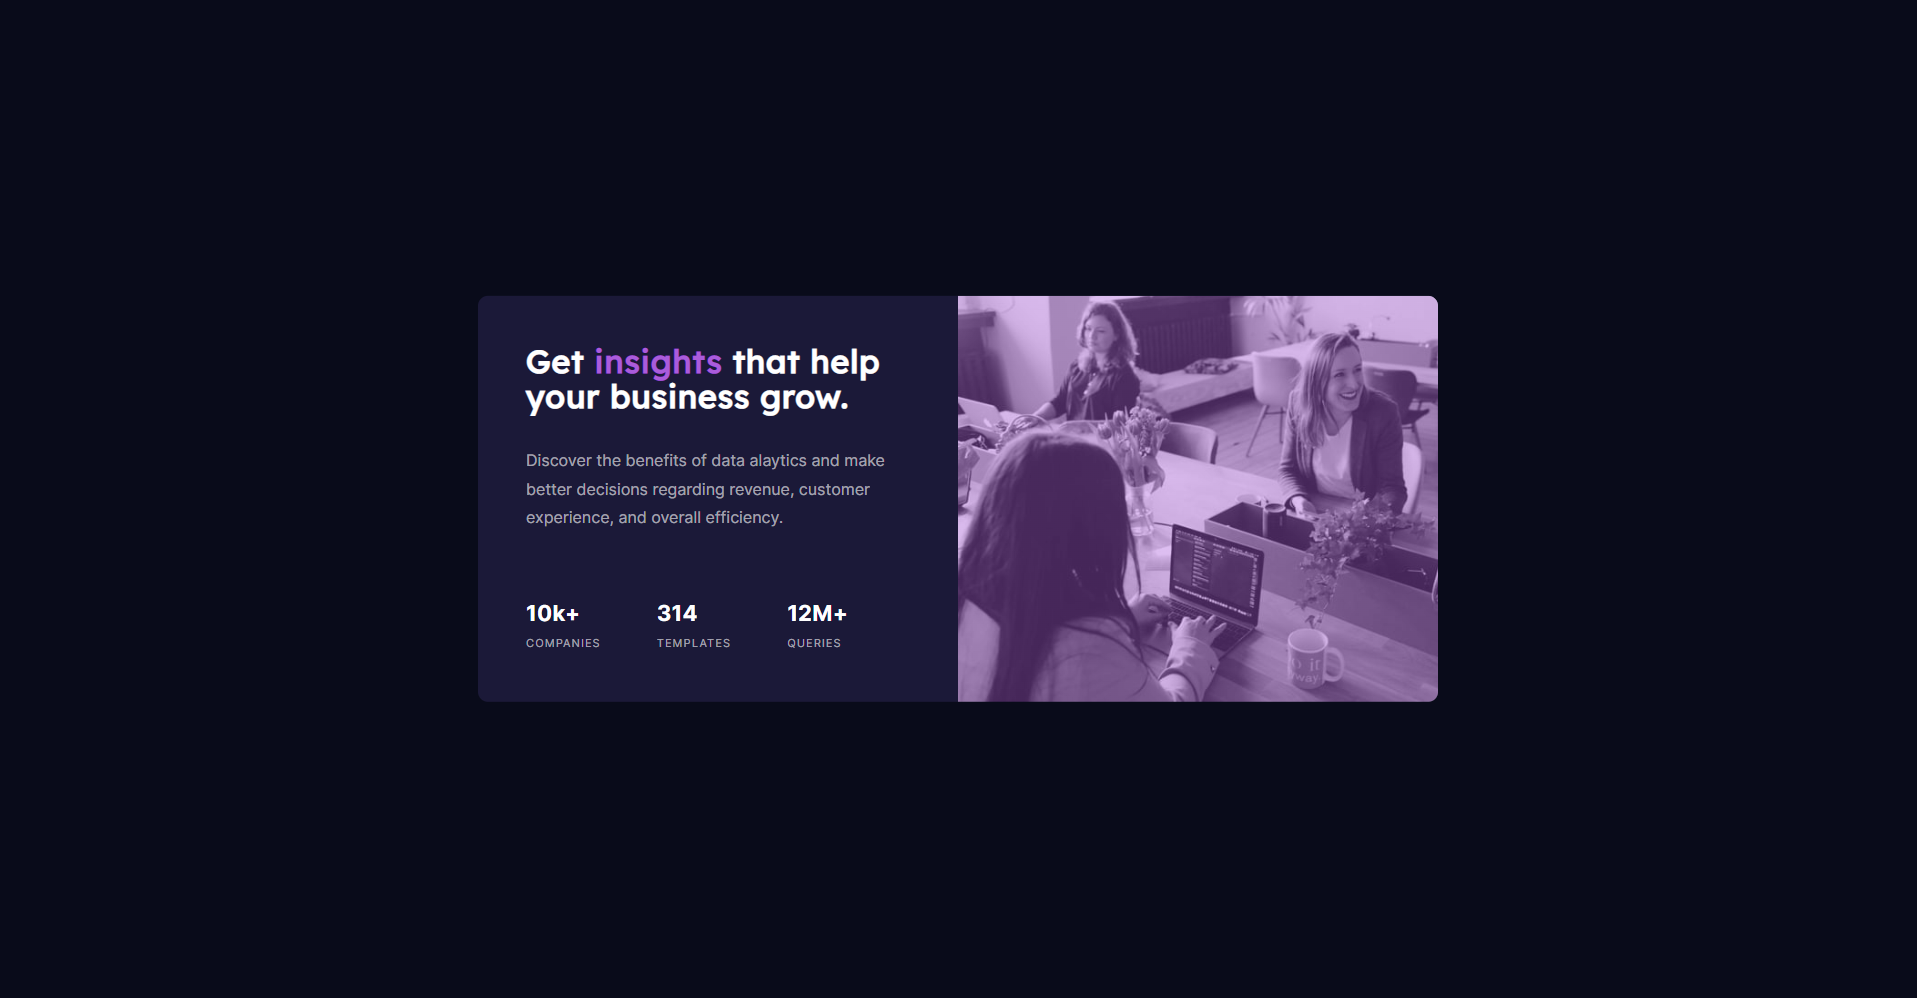
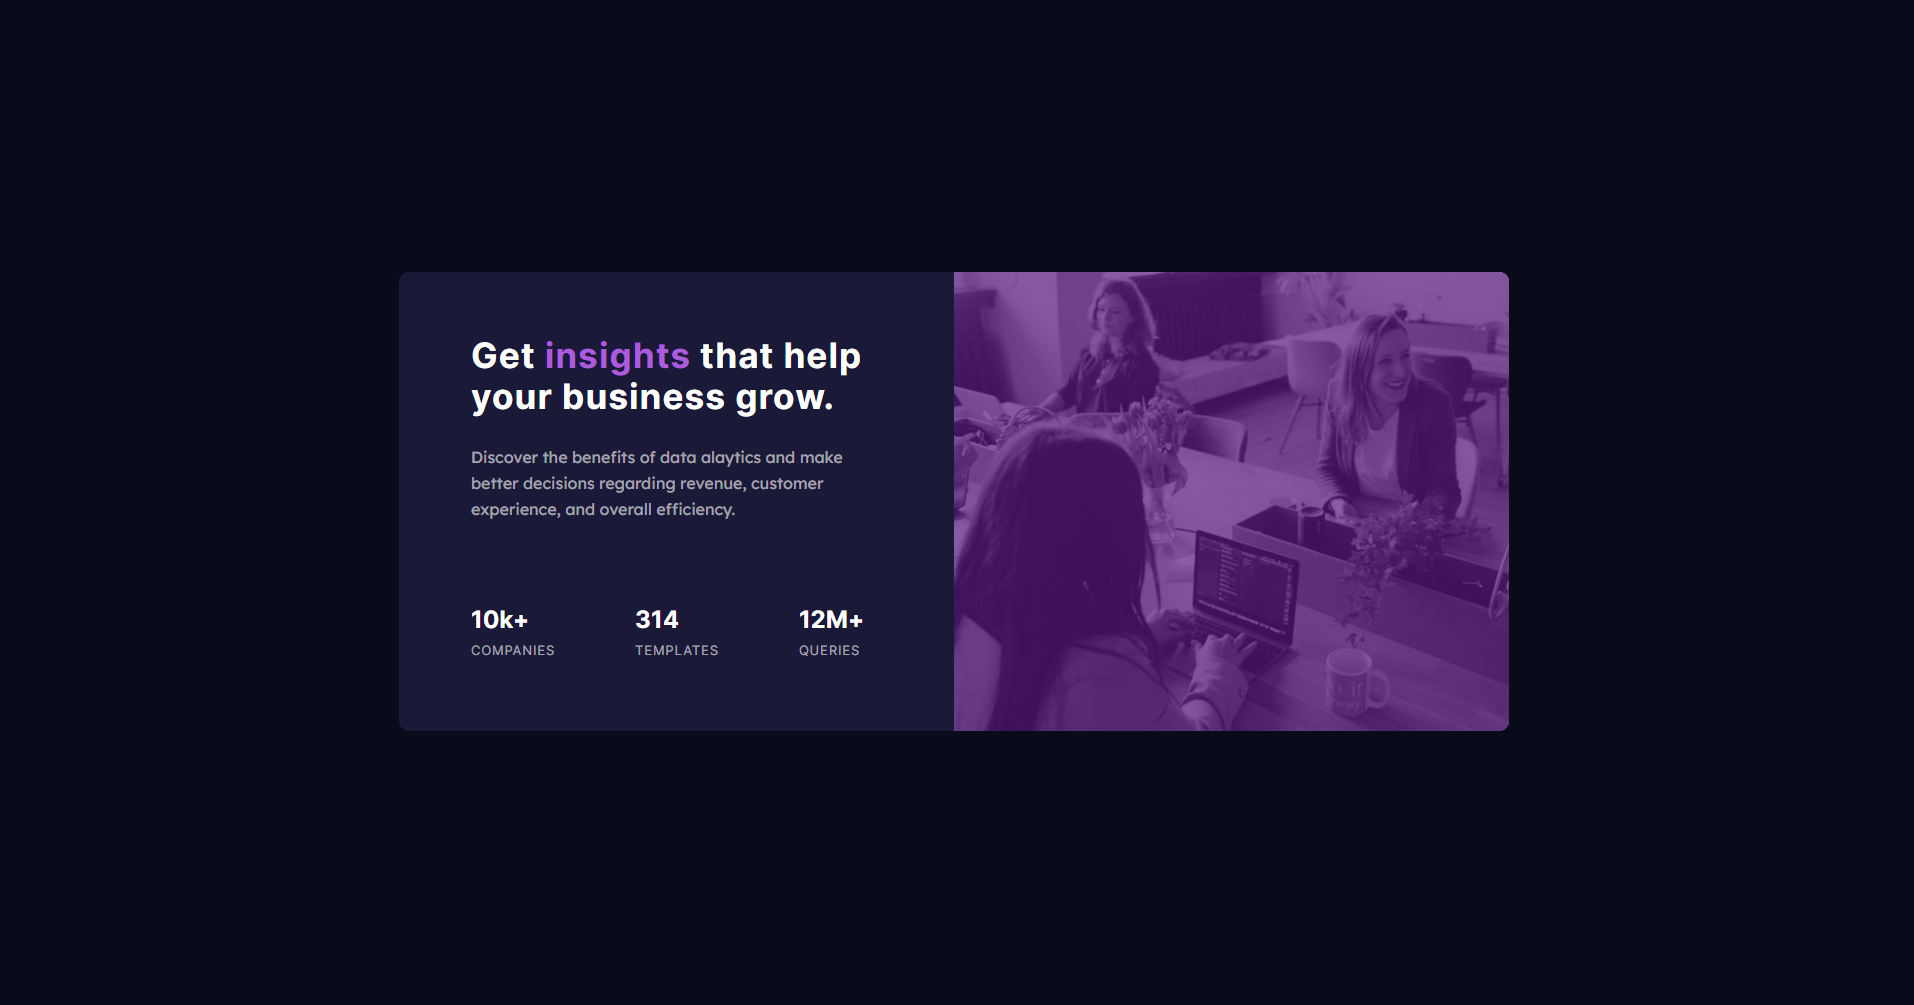
Img overlay - font size - responsiveness

Changed region(s): [[0.185, 0.2485, 0.8015, 0.7455], [0.4007, 0.5902, 0.4624, 0.6523], [0.3391, 0.5902, 0.3699, 0.6523]]

diff --git a/css/style.css b/css/style.css
@@ -6,6 +6,7 @@
   --clr-very-dark-blue: 233, 47%, 7%;
   --clr-dark-blue: 244, 38%, 16%;
   --clr-soft-violet: 277, 64%, 61%;
+  --clr-dark-violet: rgba(88, 23, 128, 0.7);
 
   --clr-white-1: 0, 0%, 100%;
   --clr-white-2: 0, 0%, 100%, 0.75;
@@ -19,8 +20,8 @@
   --fw-regular: 400;
   --fw-bold: 700;
 
-  --lh-body: 1.8;
-  --lh-heading: 1.1;
+  --lh-body: 1.6;
+  --lh-heading: 1.15;
 }
 
 /* ======================= */
@@ -98,41 +99,35 @@ svg {
 
 body {
   background-color: hsl(var(--clr-very-dark-blue));
+  display: grid;
+  place-content: center;
+  min-height: 100vh;
 }
 
 .container {
-  max-width: 1440px;
-  margin: 0 auto;
-}
-
-.box-center {
-  height: 100vh;
-  display: flex;
-  justify-content: center;
-  align-items: center;
-}
-
-.box {
-  background-color: hsl(var(--clr-dark-blue));
-  border-radius: 10px;
   color: hsl(var(--clr-white-1));
   display: grid;
   grid-template-columns: repeat(2, 1fr);
-  overflow: hidden;
-  max-width: 80%;
+  margin-inline: auto;
+  max-width: min(1110px, 90%);
 }
 
-.content-box {
-  padding: 4rem 5rem;
+.text-container {
+  border-bottom-left-radius: 10px;
+  border-top-left-radius: 10px;
+  background-color: hsl(var(--clr-dark-blue));
+  padding: 4rem 4.5rem;
+  display: flex;
+  flex-direction: column;
 }
 
 .heading-primary {
-  font-size: 2rem;
+  font-family: var(--ff-inter);
+  font-size: 2.2rem;
   font-weight: var(--fw-bold);
-  font-family: var(--ff-lexend);
-  letter-spacing: 1px;
   line-height: var(--lh-heading);
-  margin-bottom: 1em;
+  margin-bottom: 0.8em;
+  letter-spacing: 1px;
 }
 
 .heading-primary span {
@@ -140,76 +135,109 @@ body {
 }
 
 .description {
+  font-family: var(--ff-lexend);
   line-height: var(--lh-body);
-  font-family: var(--ff-inter);
   color: hsl(var(--clr-white-3));
-  margin-bottom: 4em;
+  margin-bottom: 5rem;
 }
 
-.image-box {
-  background-image: linear-gradient(
-      to right bottom,
-      hsl(var(--clr-soft-violet), 0.4),
-      hsl(var(--clr-soft-violet), 0.4)
-    ),
-    url("../images/image-header-desktop.jpg");
-  background-repeat: no-repeat;
-  background-size: cover;
-}
-
-.about-box {
+.info-container {
   display: flex;
 }
 
-.about-box div:not(:last-child) {
-  margin-right: 3.5rem;
+.info-container .info:not(:last-child) {
+  margin-right: 5rem;
 }
 
-.about-box p {
+.info-number,
+.info-text {
   font-family: var(--ff-inter);
-  font-size: 1.4rem;
+}
+
+.info-number {
+  font-size: 1.5rem;
   font-weight: var(--fw-bold);
 }
 
-.about-box span {
-  color: hsl(var(--clr-white-3));
-  font-family: var(--ff-inter);
+.info-text {
   text-transform: uppercase;
-  font-size: 0.7rem;
+  font-size: 0.8rem;
   letter-spacing: 1px;
+  color: hsl(var(--clr-white-3));
 }
 
-@media (max-width: 52em) {
-  .box {
+.img-container {
+  position: relative;
+}
+
+.img-container::after {
+  content: "";
+  display: block;
+  width: 100%;
+  height: 100%;
+  position: absolute;
+  top: 0;
+  left: 0;
+  background-color: var(--clr-dark-violet);
+  border-top-right-radius: 10px;
+  border-bottom-right-radius: 10px;
+}
+
+.img {
+  width: 100%;
+  height: 100%;
+  object-fit: cover;
+  border-top-right-radius: 10px;
+  border-bottom-right-radius: 10px;
+}
+
+@media (max-width: 50em) {
+  .container {
     grid-template-columns: 1fr;
-    grid-template-rows: 1fr 2fr;
+  }
+
+  .text-container {
+    padding: 0;
+    border-top-left-radius: 0;
+    border-top-right-radius: 0px;
+    border-bottom-left-radius: 10px;
+    border-bottom-right-radius: 10px;
     text-align: center;
+    padding: 2.5rem 2rem;
   }
 
-  .content-box {
-    grid-row: 2 / -1;
+  .heading-primary {
+    font-size: 1.7rem;
   }
 
-  .image-box {
-    grid-row: 1 / 2;
-    background-image: linear-gradient(
-        to right bottom,
-        hsl(var(--clr-soft-violet), 0.4),
-        hsl(var(--clr-soft-violet), 0.4)
-      ),
-      url("../images/image-header-mobile.jpg");
+  .description {
+    margin-bottom: 3rem;
   }
 
-  .about-box {
+  .info-container {
     flex-direction: column;
-    gap: 1rem;
+    gap: 2em;
   }
 
-  .about-box div:not(:last-child) {
+  .info-container .info:not(:last-child) {
     margin-right: 0;
   }
 
-  .content-box {
-    padding: 2rem 2.5rem;
+  .img-container {
+    grid-row: 1 / 2;
+  }
+
+  .img-container::after {
+    border-top-right-radius: 10px;
+    border-bottom-left-radius: 0;
+    border-bottom-right-radius: 0;
+    border-top-left-radius: 10px;
+  }
+
+  .img {
+    border-top-right-radius: 10px;
+    border-top-left-radius: 10px;
+    border-bottom-left-radius: 0;
+    border-bottom-right-radius: 0;
   }
 }

diff --git a/index.html b/index.html
@@ -21,35 +21,37 @@
     <title>Frontend Mentor | Stats preview card component</title>
   </head>
   <body>
-    <main>
-      <div class="container box-center">
-        <div class="box">
-          <div class="content-box">
-            <h1 class="heading-primary">
-              Get <span>insights</span> that help your business grow.
-            </h1>
-            <p class="description">
-              Discover the benefits of data alaytics and make better decisions
-              regarding revenue, customer experience, and overall efficiency.
-            </p>
-            <div class="about-box">
-              <div class="companies-box">
-                <p>10k+</p>
-                <span>Companies</span>
-              </div>
-              <div class="templates-box">
-                <p>314</p>
-                <span>Templates</span>
-              </div>
-              <div class="queries-box">
-                <p>12M+</p>
-                <span>Queries</span>
-              </div>
-            </div>
+    <div class="container">
+      <div class="text-container">
+        <h1 class="heading-primary">
+          Get <span>insights</span> that help your business grow.
+        </h1>
+        <p class="description">
+          Discover the benefits of data alaytics and make better decisions
+          regarding revenue, customer experience, and overall efficiency.
+        </p>
+        <div class="info-container">
+          <div class="info">
+            <p class="info-number">10k+</p>
+            <span class="info-text">Companies</span>
           </div>
-          <div class="image-box"></div>
+          <div class="info">
+            <p class="info-number">314</p>
+            <span class="info-text">Templates</span>
+          </div>
+          <div class="info">
+            <p class="info-number">12M+</p>
+            <span class="info-text">Queries</span>
+          </div>
         </div>
       </div>
-    </main>
+      <picture class="img-container">
+        <source
+          media="(max-width: 375px)"
+          srcset="images/image-header-mobile.jpg"
+        />
+        <img class="img" src="images/image-header-desktop.jpg" alt="Image" />
+      </picture>
+    </div>
   </body>
 </html>
